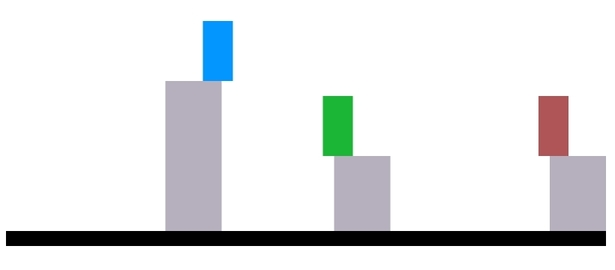
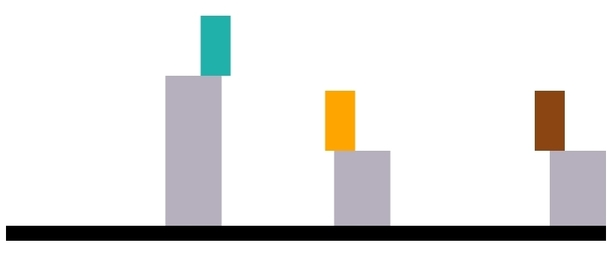
updated priors for blocks to fall, pictures

diff --git a/experiments/blocksworld-prior/animation-physical-engine/04_worlds.js b/experiments/blocksworld-prior/animation-physical-engine/04_worlds.js
@@ -1,38 +1,36 @@
 // 1. get data
-let dataAll = [
-  {"pa_given_c": "uncertain", "platform2.width": "narrow", "platform.type": "basic2", "must_not_be_large": "none", "id": "S1-121", "C.orientation": "vertical", "pc": "high", "pa": "high", "platform1.height": "high", "pc_given_a": "uncertain", "AC.position": "-1", "dependence.c": "1", "platform2.height": "high", "req.exp2.not.small": "", "Comment-dependency": "slightly_dep", "must_not_be_small": "", "A.orientation": "vertical", "platform.dist": "short", "platform1.width": "narrow", "req.exp2.not.large": "", "dependence.a": "1", "comment1": "\nNeeds training example", "comment2": "both become less likely given the other"},
-  {"pa_given_c": "uncertain", "platform2.width": "narrow", "platform.type": "basic2", "must_not_be_large": "none", "id": "S10-203", "C.orientation": "vertical", "pc": "low", "pa": "high", "platform1.height": "high", "pc_given_a": "low", "AC.position": "-1", "dependence.c": "0", "platform2.height": "default", "req.exp2.not.small": "", "Comment-dependency": "slightly_dep", "must_not_be_small": "", "A.orientation": "vertical", "platform.dist": "short", "platform1.width": "narrow", "req.exp2.not.large": "", "dependence.a": "1", "comment1": "p(A|C) uncertain because of space", "comment2": "-1"},
-  {"pa_given_c": "high", "platform2.width": "-1", "platform.type": "basic1", "must_not_be_large": "none", "id": "S12-203", "C.orientation": "vertical", "pc": "low", "pa": "high", "platform1.height": "default", "pc_given_a": "low", "AC.position": "side", "dependence.c": "0", "platform2.height": "-1", "req.exp2.not.small": "A", "Comment-dependency": "independent", "must_not_be_small": "", "A.orientation": "vertical", "platform.dist": "-1", "platform1.width": "default", "req.exp2.not.large": "C", "dependence.a": "0", "comment1": "-1", "comment2": "-1"},
-  {"pa_given_c": "uncertain", "platform2.width": "narrow", "platform.type": "basic2", "must_not_be_large": "none", "id": "S15-443", "C.orientation": "vertical", "pc": "uncertain", "pa": "high", "platform1.height": "high", "pc_given_a": "low", "AC.position": "-1", "dependence.c": "1", "platform2.height": "high", "req.exp2.not.small": "", "Comment-dependency": "slightly_dep", "must_not_be_small": "", "A.orientation": "vertical", "platform.dist": "short", "platform1.width": "narrow", "req.exp2.not.large": "", "dependence.a": "1", "comment1": "p(A|C) uncertain because of space,\nP(C|A) low because A would fall more to the right", "comment2": "both become less likely given the other"},
-  {"pa_given_c": "uncertain", "platform2.width": "narrow", "platform.type": "basic2", "must_not_be_large": "none", "id": "S20-468", "C.orientation": "vertical", "pc": "uncertain", "pa": "high", "platform1.height": "high", "pc_given_a": "uncertain", "AC.position": "-1", "dependence.c": "0", "platform2.height": "default", "req.exp2.not.small": "", "Comment-dependency": "slightly_dep", "must_not_be_small": "", "A.orientation": "vertical", "platform.dist": "short", "platform1.width": "narrow", "req.exp2.not.large": "", "dependence.a": "1", "comment1": "similar to S10-203", "comment2": "-1"},
-  {"pa_given_c": "high", "platform2.width": "-1", "platform.type": "basic1", "must_not_be_large": "none", "id": "S22-468", "C.orientation": "vertical", "pc": "uncertain", "pa": "high", "platform1.height": "default", "pc_given_a": "uncertain", "AC.position": "side", "dependence.c": "0", "platform2.height": "-1", "req.exp2.not.small": "A", "Comment-dependency": "independent", "must_not_be_small": "", "A.orientation": "vertical", "platform.dist": "-1", "platform1.width": "default", "req.exp2.not.large": "", "dependence.a": "0", "comment1": "-1", "comment2": "-1"},
-  {"pa_given_c": "low", "platform2.width": "-1", "platform.type": "basic1", "must_not_be_large": "ac", "id": "S30-805", "C.orientation": "vertical", "pc": "low", "pa": "low", "platform1.height": "default", "pc_given_a": "low", "AC.position": "side", "dependence.c": "0", "platform2.height": "-1", "req.exp2.not.small": "", "Comment-dependency": "independent", "must_not_be_small": "", "A.orientation": "vertical", "platform.dist": "-1", "platform1.width": "default", "req.exp2.not.large": "A_C", "dependence.a": "0", "comment1": "-1", "comment2": "-1"},
-  {"pa_given_c": "uncertain", "platform2.width": "narrow", "platform.type": "basic2", "must_not_be_large": "ac", "id": "S32-806", "C.orientation": "vertical", "pc": "low", "pa": "low", "platform1.height": "high", "pc_given_a": "low", "AC.position": "-1", "dependence.c": "0", "platform2.height": "default", "req.exp2.not.small": "", "Comment-dependency": "slightly_dep", "must_not_be_small": "", "A.orientation": "vertical", "platform.dist": "short", "platform1.width": "narrow", "req.exp2.not.large": "A_C", "dependence.a": "1", "comment1": "needs air draft", "comment2": "similar to S20-468"},
-  {"pa_given_c": "high", "platform2.width": "narrow", "platform.type": "basic2", "must_not_be_large": "", "id": "S34-806", "C.orientation": "vertical", "pc": "low", "pa": "low", "platform1.height": "default", "pc_given_a": "low", "AC.position": "-1", "dependence.c": "0", "platform2.height": "high", "req.exp2.not.small": "", "Comment-dependency": "causally_dep", "must_not_be_small": "", "A.orientation": "horizontal", "platform.dist": "very_short", "platform1.width": "narrow", "req.exp2.not.large": "", "dependence.a": "2", "comment1": "-1", "comment2": "-1"},
-  {"pa_given_c": "uncertain", "platform2.width": "-1", "platform.type": "seesaw", "must_not_be_large": "", "id": "S42-806", "C.orientation": "horizontal", "pc": "low", "pa": "low", "platform1.height": "-1", "pc_given_a": "uncertain", "AC.position": "stack_A_on_C", "dependence.c": "1", "platform2.height": "-1", "req.exp2.not.small": "", "Comment-dependency": "causally_dep", "must_not_be_small": "", "A.orientation": "horizontal", "platform.dist": "-1", "platform1.width": "-1", "req.exp2.not.large": "", "dependence.a": "1", "comment1": "New\nNeeds training example", "comment2": "should be stacked perfectly in the middle; \nOr perfectly on each edge"},
-  {"pa_given_c": "high", "platform2.width": "-1", "platform.type": "basic1", "must_not_be_large": "", "id": "S44-806", "C.orientation": "horizontal", "pc": "low", "pa": "low", "platform1.height": "default", "pc_given_a": "uncertain", "AC.position": "stack_A_on_C", "dependence.c": "1", "platform2.height": "-1", "req.exp2.not.small": "", "Comment-dependency": "causally_dep", "must_not_be_small": "", "A.orientation": "vertical", "platform.dist": "-1", "platform1.width": "narrow", "req.exp2.not.large": "", "dependence.a": "2", "comment1": "needs training example", "comment2": "both become more likely given the other, one of them more so"},
-  {"pa_given_c": "high", "platform2.width": "-1", "platform.type": "basic1", "must_not_be_large": "", "id": "S54-806", "C.orientation": "horizontal", "pc": "low", "pa": "low", "platform1.height": "default", "pc_given_a": "high", "AC.position": "stack_C_on_A", "dependence.c": "2", "platform2.height": "-1", "req.exp2.not.small": "", "Comment-dependency": "dependent", "must_not_be_small": "", "A.orientation": "horizontal", "platform.dist": "-1", "platform1.width": "narrow", "req.exp2.not.large": "", "dependence.a": "2", "comment1": "similar to S42-806 and S97-1674\nDifficult\nNeeds training", "comment2": "both become more likely given the other"},
-  {"pa_given_c": "low", "platform2.width": "narrow", "platform.type": "basic2", "must_not_be_large": "", "id": "S55-1006", "C.orientation": "horizontal", "pc": "uncertain", "pa": "low", "platform1.height": "default", "pc_given_a": "low", "AC.position": "-1", "dependence.c": "1", "platform2.height": "default", "req.exp2.not.small": "", "Comment-dependency": "dependent", "must_not_be_small": "", "A.orientation": "vertical", "platform.dist": "short", "platform1.width": "narrow", "req.exp2.not.large": "", "dependence.a": "0", "comment1": "difficult", "comment2": "-1"},
-  {"pa_given_c": "low", "platform2.width": "-1", "platform.type": "basic1", "must_not_be_large": "", "id": "S57-1007", "C.orientation": "vertical", "pc": "uncertain", "pa": "low", "platform1.height": "default", "pc_given_a": "uncertain", "AC.position": "side", "dependence.c": "0", "platform2.height": "-1", "req.exp2.not.small": "", "Comment-dependency": "independent", "must_not_be_small": "", "A.orientation": "vertical", "platform.dist": "-1", "platform1.width": "default", "req.exp2.not.large": "A", "dependence.a": "0", "comment1": "-1", "comment2": "-1"},
-  {"pa_given_c": "low", "platform2.width": "-1", "platform.type": "basic1", "must_not_be_large": "", "id": "S59-1007", "C.orientation": "vertical", "pc": "uncertain", "pa": "low", "platform1.height": "default", "pc_given_a": "high", "AC.position": "stack_C_on_A", "dependence.c": "1", "platform2.height": "-1", "req.exp2.not.small": "", "Comment-dependency": "causally_dep", "must_not_be_small": "", "A.orientation": "horizontal", "platform.dist": "-1", "platform1.width": "narrow", "req.exp2.not.large": "", "dependence.a": "0", "comment1": "similar to S55-1006", "comment2": "-1"},
-  {"pa_given_c": "uncertain", "platform2.width": "very_narrow", "platform.type": "basic2", "must_not_be_large": "", "id": "S63-1039", "C.orientation": "vertical", "pc": "uncertain", "pa": "low", "platform1.height": "default", "pc_given_a": "high", "AC.position": "-1", "dependence.c": "1", "platform2.height": "default", "req.exp2.not.small": "", "Comment-dependency": "causally_dep", "must_not_be_small": "", "A.orientation": "vertical", "platform.dist": "extreme_short", "platform1.width": "very_narrow", "req.exp2.not.large": "", "dependence.a": "1", "comment1": "New\nsimilar to S10-203", "comment2": "horizontal"},
-  {"pa_given_c": "high", "platform2.width": "-1", "platform.type": "basic1", "must_not_be_large": "none", "id": "S7-130", "C.orientation": "vertical", "pc": "high", "pa": "high", "platform1.height": "default", "pc_given_a": "high", "AC.position": "side", "dependence.c": "0", "platform2.height": "-1", "req.exp2.not.small": "A_C", "Comment-dependency": "independent", "must_not_be_small": "ac", "A.orientation": "vertical", "platform.dist": "-1", "platform1.width": "default", "req.exp2.not.large": "", "dependence.a": "0", "comment1": "-1", "comment2": "-1"},
-  {"pa_given_c": "low", "platform2.width": "default", "platform.type": "basic2", "must_not_be_large": "", "id": "S8-202", "C.orientation": "vertical", "pc": "low", "pa": "high", "platform1.height": "default", "pc_given_a": "low", "AC.position": "-1", "dependence.c": "0", "platform2.height": "default", "req.exp2.not.small": "", "Comment-dependency": "slightly_causally_dep", "must_not_be_small": "", "A.orientation": "vertical", "platform.dist": "very_short", "platform1.width": "default", "req.exp2.not.large": "", "dependence.a": "2", "comment1": "similar to S55-1006", "comment2": "-1"},
-  {"pa_given_c": "low", "platform2.width": "default", "platform.type": "basic2", "must_not_be_large": "", "id": "S83-1609", "C.orientation": "vertical", "pc": "uncertain", "pa": "uncertain", "platform1.height": "default", "pc_given_a": "low", "AC.position": "-1", "dependence.c": "1", "platform2.height": "default", "req.exp2.not.small": "", "Comment-dependency": "slightly_dep", "must_not_be_small": "", "A.orientation": "vertical", "platform.dist": "short", "platform1.width": "default", "req.exp2.not.large": "", "dependence.a": "1", "comment1": "-1", "comment2": "both become less likely given the other, \nSimilar to S15-443"},
-  {"pa_given_c": "uncertain", "platform2.width": "-1", "platform.type": "basic1", "must_not_be_large": "", "id": "S89-1642", "C.orientation": "vertical", "pc": "uncertain", "pa": "uncertain", "platform1.height": "default", "pc_given_a": "uncertain", "AC.position": "side", "dependence.c": "0", "platform2.height": "-1", "req.exp2.not.small": "", "Comment-dependency": "independent", "must_not_be_small": "", "A.orientation": "vertical", "platform.dist": "-1", "platform1.width": "default", "req.exp2.not.large": "", "dependence.a": "0", "comment1": "-1", "comment2": "-1"},
-  {"pa_given_c": "high", "platform2.width": "narrow", "platform.type": "basic2", "must_not_be_large": "", "id": "S93-1674", "C.orientation": "vertical", "pc": "uncertain", "pa": "uncertain", "platform1.height": "default", "pc_given_a": "uncertain", "AC.position": "-1", "dependence.c": "0", "platform2.height": "high", "req.exp2.not.small": "", "Comment-dependency": "slightly_causally_dep", "must_not_be_small": "", "A.orientation": "horizontal", "platform.dist": "extreme_short", "platform1.width": "narrow", "req.exp2.not.large": "", "dependence.a": "1", "comment1": "similar to S59-1007\n", "comment2": "-1"},
-  {"pa_given_c": "high", "platform2.width": "-1", "platform.type": "seesaw", "must_not_be_large": "", "id": "S97-1674", "C.orientation": "horizontal", "pc": "uncertain", "pa": "uncertain", "platform1.height": "-1", "pc_given_a": "high", "AC.position": "side", "dependence.c": "1", "platform2.height": "-1", "req.exp2.not.small": "", "Comment-dependency": "causally_dep", "must_not_be_small": "", "A.orientation": "horizontal", "platform.dist": "-1", "platform1.width": "-1", "req.exp2.not.large": "", "dependence.a": "1", "comment1": "-1", "comment2": "Both become more likely given the other;\nSimilar to S42-806"},
-  {"pa_given_c": "high", "platform2.width": "-1", "platform.type": "seesaw", "must_not_be_large": "none", "id": "S7-130-dep", "C.orientation": "horizontal", "pc": "high", "pa": "high", "platform1.height": "-1", "pc_given_a": "high", "AC.position": "side", "dependence.c": "dep", "platform2.height": "-1", "req.exp2.not.small": "", "Comment-dependency": "causally_dep", "must_not_be_small": "", "A.orientation": "horizontal", "platform.dist": "-1", "platform1.width": "-1", "req.exp2.not.large": "", "dependence.a": "dep", "comment1": "such that not sure in which direction the blocks fall; side or stacked, try out", "comment2": "-1"},
-  {"pa_given_c": "low", "platform2.width": "-1", "platform.type": "basic1", "must_not_be_large": "", "id": "S30-805-dep", "C.orientation": "horizontal", "pc": "low", "pa": "low", "platform1.height": "default", "pc_given_a": "low", "AC.position": "stack_A_on_C", "dependence.c": "dep", "platform2.height": "-1", "req.exp2.not.small": "", "Comment-dependency": "dependent", "must_not_be_small": "", "A.orientation": "horizontal", "platform.dist": "-1", "platform1.width": "default", "req.exp2.not.large": "", "dependence.a": "dep", "comment1": "pc should be 0, directly on top of platform", "comment2": "-1"},
-  {"pa_given_c": "uncertain", "platform2.width": "-1", "platform.type": "seesaw", "must_not_be_large": "", "id": "S89-1642-dep", "C.orientation": "horizontal", "pc": "uncertain", "pa": "uncertain", "platform1.height": "-1", "pc_given_a": "uncertain", "AC.position": "side", "dependence.c": "dep", "platform2.height": "-1", "req.exp2.not.small": "", "Comment-dependency": "causally_dep", "must_not_be_small": "", "A.orientation": "horizontal", "platform.dist": "-1", "platform1.width": "-1", "req.exp2.not.large": "", "dependence.a": "dep", "comment1": "one on each side such that unclear whether in balance or not", "comment2": "-1"}
-]
+let dataAll =
+[{"id": "S1-121", "req.exp1.not.small": "", "req.exp1.not.large": "none", "req.exp2.not.small": "", "req.exp2.not.large": "", "pa": "high", "pc": "high", "pc_given_a": "uncertain", "pa_given_c": "uncertain", "Comment-dependency": "slightly_dep", "dependence.c": "1", "dependence.a": "1", "AC.position": "-1", "A.orientation": "vertical", "C.orientation": "vertical", "platform.type": "basic2", "platform1.height": "high", "platform1.width": "narrow", "platform2.height": "high", "platform2.width": "narrow", "platform.dist": "short", "comment1": "\nNeeds training example", "comment2": "both become less likely given the other"},
+{"id": "S10-203", "req.exp1.not.small": "", "req.exp1.not.large": "none", "req.exp2.not.small": "", "req.exp2.not.large": "", "pa": "high", "pc": "low", "pc_given_a": "low", "pa_given_c": "uncertain", "Comment-dependency": "slightly_dep", "dependence.c": "0", "dependence.a": "1", "AC.position": "-1", "A.orientation": "vertical", "C.orientation": "vertical", "platform.type": "basic2", "platform1.height": "high", "platform1.width": "narrow", "platform2.height": "default", "platform2.width": "narrow", "platform.dist": "short", "comment1": "p(A|C) uncertain because of space", "comment2": "-1"},
+{"id": "S12-203", "req.exp1.not.small": "", "req.exp1.not.large": "none", "req.exp2.not.small": "A", "req.exp2.not.large": "C", "pa": "high", "pc": "low", "pc_given_a": "low", "pa_given_c": "high", "Comment-dependency": "independent", "dependence.c": "0", "dependence.a": "0", "AC.position": "side", "A.orientation": "vertical", "C.orientation": "vertical", "platform.type": "basic1", "platform1.height": "default", "platform1.width": "default", "platform2.height": "-1", "platform2.width": "-1", "platform.dist": "-1", "comment1": "-1", "comment2": "-1"},
+{"id": "S15-443", "req.exp1.not.small": "", "req.exp1.not.large": "none", "req.exp2.not.small": "", "req.exp2.not.large": "", "pa": "high", "pc": "uncertain", "pc_given_a": "low", "pa_given_c": "uncertain", "Comment-dependency": "slightly_dep", "dependence.c": "1", "dependence.a": "1", "AC.position": "-1", "A.orientation": "vertical", "C.orientation": "vertical", "platform.type": "basic2", "platform1.height": "high", "platform1.width": "narrow", "platform2.height": "high", "platform2.width": "narrow", "platform.dist": "short", "comment1": "p(A|C) uncertain because of space,\nP(C|A) low because A would fall more to the right", "comment2": "both become less likely given the other"},
+{"id": "S20-468", "req.exp1.not.small": "", "req.exp1.not.large": "none", "req.exp2.not.small": "", "req.exp2.not.large": "", "pa": "high", "pc": "uncertain", "pc_given_a": "uncertain", "pa_given_c": "uncertain", "Comment-dependency": "slightly_dep", "dependence.c": "0", "dependence.a": "1", "AC.position": "-1", "A.orientation": "vertical", "C.orientation": "vertical", "platform.type": "basic2", "platform1.height": "high", "platform1.width": "narrow", "platform2.height": "default", "platform2.width": "narrow", "platform.dist": "short", "comment1": "similar to S10-203", "comment2": "-1"},
+{"id": "S22-468", "req.exp1.not.small": "", "req.exp1.not.large": "none", "req.exp2.not.small": "A", "req.exp2.not.large": "", "pa": "high", "pc": "uncertain", "pc_given_a": "uncertain", "pa_given_c": "high", "Comment-dependency": "independent", "dependence.c": "0", "dependence.a": "0", "AC.position": "side", "A.orientation": "vertical", "C.orientation": "vertical", "platform.type": "basic1", "platform1.height": "default", "platform1.width": "default", "platform2.height": "-1", "platform2.width": "-1", "platform.dist": "-1", "comment1": "-1", "comment2": "-1"},
+{"id": "S30-805", "req.exp1.not.small": "", "req.exp1.not.large": "ac", "req.exp2.not.small": "", "req.exp2.not.large": "A_C", "pa": "low", "pc": "low", "pc_given_a": "low", "pa_given_c": "low", "Comment-dependency": "independent", "dependence.c": "0", "dependence.a": "0", "AC.position": "side", "A.orientation": "vertical", "C.orientation": "vertical", "platform.type": "basic1", "platform1.height": "default", "platform1.width": "default", "platform2.height": "-1", "platform2.width": "-1", "platform.dist": "-1", "comment1": "-1", "comment2": "-1"},
+{"id": "S32-806", "req.exp1.not.small": "", "req.exp1.not.large": "ac", "req.exp2.not.small": "", "req.exp2.not.large": "A_C", "pa": "low", "pc": "low", "pc_given_a": "low", "pa_given_c": "uncertain", "Comment-dependency": "slightly_dep", "dependence.c": "0", "dependence.a": "1", "AC.position": "-1", "A.orientation": "vertical", "C.orientation": "vertical", "platform.type": "basic2", "platform1.height": "high", "platform1.width": "narrow", "platform2.height": "default", "platform2.width": "narrow", "platform.dist": "short", "comment1": "needs air draft", "comment2": "similar to S20-468"},
+{"id": "S34-806", "req.exp1.not.small": "", "req.exp1.not.large": "", "req.exp2.not.small": "", "req.exp2.not.large": "", "pa": "low", "pc": "low", "pc_given_a": "low", "pa_given_c": "high", "Comment-dependency": "causally_dep", "dependence.c": "0", "dependence.a": "2", "AC.position": "-1", "A.orientation": "horizontal", "C.orientation": "vertical", "platform.type": "basic2", "platform1.height": "default", "platform1.width": "narrow", "platform2.height": "high", "platform2.width": "narrow", "platform.dist": "very_short", "comment1": "-1", "comment2": "-1"},
+{"id": "S42-806", "req.exp1.not.small": "", "req.exp1.not.large": "", "req.exp2.not.small": "", "req.exp2.not.large": "", "pa": "low", "pc": "low", "pc_given_a": "uncertain", "pa_given_c": "uncertain", "Comment-dependency": "causally_dep", "dependence.c": "1", "dependence.a": "1", "AC.position": "stack_A_on_C", "A.orientation": "horizontal", "C.orientation": "horizontal", "platform.type": "seesaw", "platform1.height": "-1", "platform1.width": "-1", "platform2.height": "-1", "platform2.width": "-1", "platform.dist": "-1", "comment1": "New\nNeeds training example", "comment2": "should be stacked perfectly in the middle; \nOr perfectly on each edge"},
+{"id": "S44-806", "req.exp1.not.small": "", "req.exp1.not.large": "", "req.exp2.not.small": "", "req.exp2.not.large": "", "pa": "low", "pc": "low", "pc_given_a": "uncertain", "pa_given_c": "high", "Comment-dependency": "causally_dep", "dependence.c": "1", "dependence.a": "2", "AC.position": "stack_A_on_C", "A.orientation": "vertical", "C.orientation": "horizontal", "platform.type": "basic1", "platform1.height": "default", "platform1.width": "narrow", "platform2.height": "-1", "platform2.width": "-1", "platform.dist": "-1", "comment1": "needs training example", "comment2": "both become more likely given the other, one of them more so"},
+{"id": "S54-806", "req.exp1.not.small": "", "req.exp1.not.large": "", "req.exp2.not.small": "", "req.exp2.not.large": "", "pa": "low", "pc": "low", "pc_given_a": "high", "pa_given_c": "high", "Comment-dependency": "dependent", "dependence.c": "2", "dependence.a": "2", "AC.position": "stack_C_on_A", "A.orientation": "horizontal", "C.orientation": "horizontal", "platform.type": "basic1", "platform1.height": "default", "platform1.width": "narrow", "platform2.height": "-1", "platform2.width": "-1", "platform.dist": "-1", "comment1": "similar to S42-806 and S97-1674\nDifficult\nNeeds training", "comment2": "both become more likely given the other"},
+{"id": "S55-1006", "req.exp1.not.small": "", "req.exp1.not.large": "", "req.exp2.not.small": "", "req.exp2.not.large": "", "pa": "low", "pc": "uncertain", "pc_given_a": "low", "pa_given_c": "low", "Comment-dependency": "dependent", "dependence.c": "1", "dependence.a": "0", "AC.position": "-1", "A.orientation": "vertical", "C.orientation": "horizontal", "platform.type": "basic2", "platform1.height": "default", "platform1.width": "narrow", "platform2.height": "default", "platform2.width": "narrow", "platform.dist": "short", "comment1": "difficult", "comment2": "-1"},
+{"id": "S57-1007", "req.exp1.not.small": "", "req.exp1.not.large": "", "req.exp2.not.small": "", "req.exp2.not.large": "A", "pa": "low", "pc": "uncertain", "pc_given_a": "uncertain", "pa_given_c": "low", "Comment-dependency": "independent", "dependence.c": "0", "dependence.a": "0", "AC.position": "side", "A.orientation": "vertical", "C.orientation": "vertical", "platform.type": "basic1", "platform1.height": "default", "platform1.width": "default", "platform2.height": "-1", "platform2.width": "-1", "platform.dist": "-1", "comment1": "-1", "comment2": "-1"},
+{"id": "S59-1007", "req.exp1.not.small": "", "req.exp1.not.large": "", "req.exp2.not.small": "", "req.exp2.not.large": "", "pa": "low", "pc": "uncertain", "pc_given_a": "high", "pa_given_c": "low", "Comment-dependency": "causally_dep", "dependence.c": "1", "dependence.a": "0", "AC.position": "stack_C_on_A", "A.orientation": "horizontal", "C.orientation": "vertical", "platform.type": "basic1", "platform1.height": "default", "platform1.width": "narrow", "platform2.height": "-1", "platform2.width": "-1", "platform.dist": "-1", "comment1": "similar to S55-1006", "comment2": "-1"},
+{"id": "S63-1039", "req.exp1.not.small": "", "req.exp1.not.large": "", "req.exp2.not.small": "", "req.exp2.not.large": "", "pa": "low", "pc": "uncertain", "pc_given_a": "high", "pa_given_c": "uncertain", "Comment-dependency": "causally_dep", "dependence.c": "1", "dependence.a": "1", "AC.position": "-1", "A.orientation": "vertical", "C.orientation": "vertical", "platform.type": "basic2", "platform1.height": "default", "platform1.width": "very_narrow", "platform2.height": "default", "platform2.width": "very_narrow", "platform.dist": "extreme_short", "comment1": "New\nsimilar to S10-203", "comment2": "horizontal"},
+{"id": "S7-130", "req.exp1.not.small": "ac", "req.exp1.not.large": "none", "req.exp2.not.small": "A_C", "req.exp2.not.large": "", "pa": "high", "pc": "high", "pc_given_a": "high", "pa_given_c": "high", "Comment-dependency": "independent", "dependence.c": "0", "dependence.a": "0", "AC.position": "side", "A.orientation": "vertical", "C.orientation": "vertical", "platform.type": "basic1", "platform1.height": "default", "platform1.width": "default", "platform2.height": "-1", "platform2.width": "-1", "platform.dist": "-1", "comment1": "-1", "comment2": "-1"},
+{"id": "S8-202", "req.exp1.not.small": "", "req.exp1.not.large": "", "req.exp2.not.small": "", "req.exp2.not.large": "", "pa": "high", "pc": "low", "pc_given_a": "low", "pa_given_c": "low", "Comment-dependency": "slightly_causally_dep", "dependence.c": "0", "dependence.a": "2", "AC.position": "-1", "A.orientation": "vertical", "C.orientation": "vertical", "platform.type": "basic2", "platform1.height": "default", "platform1.width": "default", "platform2.height": "default", "platform2.width": "default", "platform.dist": "very_short", "comment1": "similar to S55-1006", "comment2": "-1"},
+{"id": "S83-1609", "req.exp1.not.small": "", "req.exp1.not.large": "", "req.exp2.not.small": "", "req.exp2.not.large": "", "pa": "uncertain", "pc": "uncertain", "pc_given_a": "low", "pa_given_c": "low", "Comment-dependency": "slightly_dep", "dependence.c": "1", "dependence.a": "1", "AC.position": "-1", "A.orientation": "vertical", "C.orientation": "vertical", "platform.type": "basic2", "platform1.height": "default", "platform1.width": "default", "platform2.height": "default", "platform2.width": "default", "platform.dist": "very_short", "comment1": "-1", "comment2": "both become less likely given the other, \nSimilar to S15-443"},
+{"id": "S89-1642", "req.exp1.not.small": "", "req.exp1.not.large": "", "req.exp2.not.small": "", "req.exp2.not.large": "", "pa": "uncertain", "pc": "uncertain", "pc_given_a": "uncertain", "pa_given_c": "uncertain", "Comment-dependency": "independent", "dependence.c": "0", "dependence.a": "0", "AC.position": "side", "A.orientation": "vertical", "C.orientation": "vertical", "platform.type": "basic1", "platform1.height": "default", "platform1.width": "default", "platform2.height": "-1", "platform2.width": "-1", "platform.dist": "-1", "comment1": "-1", "comment2": "-1"},
+{"id": "S93-1674", "req.exp1.not.small": "", "req.exp1.not.large": "", "req.exp2.not.small": "", "req.exp2.not.large": "", "pa": "uncertain", "pc": "uncertain", "pc_given_a": "uncertain", "pa_given_c": "high", "Comment-dependency": "slightly_causally_dep", "dependence.c": "0", "dependence.a": "1", "AC.position": "-1", "A.orientation": "horizontal", "C.orientation": "vertical", "platform.type": "basic2", "platform1.height": "default", "platform1.width": "narrow", "platform2.height": "high", "platform2.width": "narrow", "platform.dist": "extreme_short", "comment1": "similar to S59-1007\n", "comment2": "-1"},
+{"id": "S97-1674", "req.exp1.not.small": "", "req.exp1.not.large": "", "req.exp2.not.small": "", "req.exp2.not.large": "", "pa": "uncertain", "pc": "uncertain", "pc_given_a": "high", "pa_given_c": "high", "Comment-dependency": "causally_dep", "dependence.c": "1", "dependence.a": "1", "AC.position": "side", "A.orientation": "horizontal", "C.orientation": "horizontal", "platform.type": "seesaw", "platform1.height": "-1", "platform1.width": "-1", "platform2.height": "-1", "platform2.width": "-1", "platform.dist": "-1", "comment1": "-1", "comment2": "Both become more likely given the other;\nSimilar to S42-806"},
+{"id": "S7-130-dep", "req.exp1.not.small": "", "req.exp1.not.large": "none", "req.exp2.not.small": "", "req.exp2.not.large": "", "pa": "high", "pc": "high", "pc_given_a": "high", "pa_given_c": "high", "Comment-dependency": "causally_dep", "dependence.c": "dep", "dependence.a": "dep", "AC.position": "side", "A.orientation": "horizontal", "C.orientation": "horizontal", "platform.type": "seesaw", "platform1.height": "-1", "platform1.width": "-1", "platform2.height": "-1", "platform2.width": "-1", "platform.dist": "-1", "comment1": "such that not sure in which direction the blocks fall; side or stacked, try out", "comment2": "-1"},
+{"id": "S30-805-dep", "req.exp1.not.small": "", "req.exp1.not.large": "", "req.exp2.not.small": "", "req.exp2.not.large": "", "pa": "low", "pc": "low", "pc_given_a": "low", "pa_given_c": "low", "Comment-dependency": "dependent", "dependence.c": "dep", "dependence.a": "dep", "AC.position": "stack_A_on_C", "A.orientation": "horizontal", "C.orientation": "horizontal", "platform.type": "basic1", "platform1.height": "default", "platform1.width": "default", "platform2.height": "-1", "platform2.width": "-1", "platform.dist": "-1", "comment1": "pc should be 0, directly on top of platform", "comment2": "-1"},
+{"id": "S89-1642-dep", "req.exp1.not.small": "", "req.exp1.not.large": "", "req.exp2.not.small": "", "req.exp2.not.large": "", "pa": "uncertain", "pc": "uncertain", "pc_given_a": "uncertain", "pa_given_c": "uncertain", "Comment-dependency": "causally_dep", "dependence.c": "dep", "dependence.a": "dep", "AC.position": "side", "A.orientation": "horizontal", "C.orientation": "horizontal", "platform.type": "seesaw", "platform1.height": "-1", "platform1.width": "-1", "platform2.height": "-1", "platform2.width": "-1", "platform.dist": "-1", "comment1": "one on each side such that unclear whether in balance or not", "comment2": "-1"}]
 
 let id2TrialData = {};
-
 dataAll.forEach(function(trial){
   id2TrialData[trial.id] = trial;
 });
-
+// _.map(id2TrialData, function(x){console.log(x.id)})
 
 // Create a point constraint that pins the center of the plank to fixed point in
 // space, so it can't move
@@ -160,11 +158,17 @@ createSceneObjs = function(pType, mapID2Definitions, training){
   return allSceneObjs
 }
 
-
 // 2. choose and create scene
-let idxScene = Math.floor(Math.random()*10)
-// idxScene =  9
-// console.log(dataAll[idxScene].id)
+let ids = ["S1-121", "S10-203", "S12-203", "S15-443", "S20-468","S22-468",
+           "S30-805", "S32-806", "S34-806", "S42-806", "S44-806", "S54-806",
+           "S55-1006", "S57-1007", "S59-1007", "S63-1039", "S7-130", "S8-202", "S83-1609", "S89-1642", "S93-1674", "S97-1674", "S7-130-dep",
+           "S30-805-dep", "S89-1642-dep"];
+console.log(ids.length)
+
+// let idxScene = Math.floor(Math.random()*10)
+let idxScene = 15;
+// let sceneID = ids[idxScene];
+let sceneID = "S97-1674";
 
 let allScenes;
 let sceneProps;
@@ -172,16 +176,17 @@ let worldObjects;
 
 if(MODE === "experiment"){
   allScenes =   getRandomTrainData();
-
 } else {
     if(MODE === "train"){
       allScenes = getRandomTrainData();
       idxScene = Math.floor(Math.random() * allScenes.length);
-      // idxScene = 2;
       sceneProps = allScenes[idxScene];
     } else {
-      sceneProps = dataAll[idxScene]
-      }
+      sceneProps = _.filter(dataAll, function(trial){
+        return trial.id === sceneID;
+      })[0];
+    }
     let sceneData = defineScene(sceneProps);
-    worldObjects = createSceneObjs(sceneProps["platform.type"], sceneData, MODE === "train");
+    worldObjects = createSceneObjs(sceneProps["platform.type"], sceneData,
+                                    MODE === "train");
 }

diff --git a/experiments/blocksworld-prior/animation-physical-engine/02_configuration.js b/experiments/blocksworld-prior/animation-physical-engine/02_configuration.js
@@ -13,26 +13,27 @@ let platformW = 150;
 const Dist2Side = 0
 
 const COLOR = {"platforms": "#B6AFBD",  // "#FFBC42",
-               "distractor": "#AF5558", //"#900C3F",
+               "distractor": "#8B4513", //"#900C3F",
                "ground": "black",
-               "blocks": ["#1BB635", "#0496FF"],  // green, blue
+               // "blocks": ["#1BB635", "#0496FF"],  // green, blue
+               "blocks": ["#FFA500", "#20B2AA"],  // green, blue
                "seesaw": {"plank": "darkorange", "stick": "darkgray"}}
 
 // density spruce (Fichte): 0.47 g/cm3
 // density ash (Esche): 1.47 * d_spruce
 // density steel: 16.7 * d_spruce
-let density = 0.001;
+let density = 0.01;
 const DENSITIES = {"default": density, "blocks": density,
   "seesawPlank": density * 1.47, "platforms": density * 16.7}
 
-// const FRICTIONS = {"default": 0.01}
+const FRICTIONS = {"default": 0.25}
 const RESTITUITIONS = {"default": 0} // default is inelastic
 
-const BLOCKS = {"width": 50, "height": 70,
+const BLOCKS = {"width": 40, "height": 80,
                 "minDist2Edge": 5,"step": 10
                };
 // proportion of this value of the width of the block will touch the base
-const Prior2ProportionOnBase = {"low": 0.625, "high": 0.375, "uncertain": 0.5}
+const Prior2ProportionOnBase = {"low": 0.7, "high": 0.3, "uncertain": 0.5}
 let platformDist = 2 * platformW
 const PlatformProp2Val =
   {"width": {"default": platformW, "narrow": platformW / 2, "very_narrow": platformW / 3},
@@ -134,8 +135,8 @@ function initWorldObj(kind, label, color, x=0, y=0, width=0, height=0){
                             render: {"fillStyle": color},
                             restituition: RESTITUITIONS.default,
                             density: DENSITIES.default,
-                            isStatic: false
-                            // friction: FRICTIONS.default
+                            isStatic: false,
+                            friction: FRICTIONS.default
                             // frictionStatic: 0.5 ,//(default),
                             // fricitionAir: 0.5
                            }
